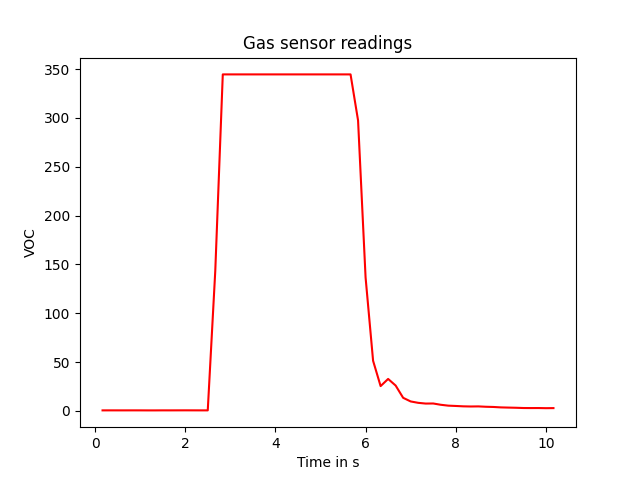
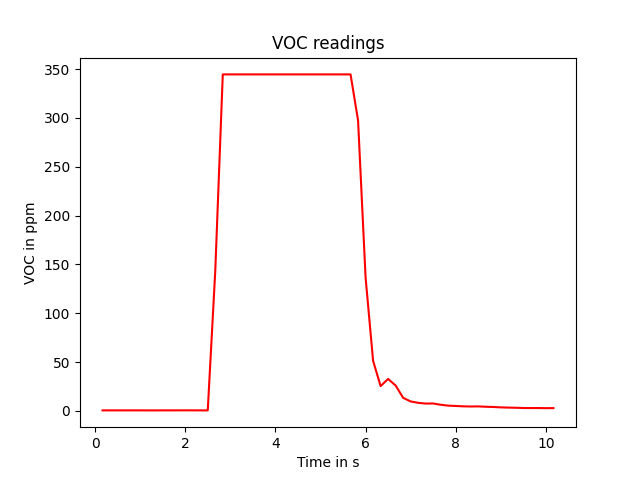
graphs updated

Changed region(s): [[0.375, 0.0625, 0.6562, 0.125], [0.0312, 0.4062, 0.0625, 0.5938]]

diff --git a/Module_3/Task2/task2_read.py b/Module_3/Task2/task2_read.py
@@ -63,15 +63,15 @@ range = np.arange(10 , (voc.size*10)+10, 10)/60
 plt.figure(1)
 plt.plot(range , voc , color = 'red')
 plt.xlabel('Time in s')
-plt.ylabel("VOC" )
-plt.title('Gas sensor readings')
+plt.ylabel("VOC in ppm" )
+plt.title('VOC readings')
 plt.savefig(ex_name+'voc' )
 
 plt.figure(2)
-plt.plot(range , co2 , color = 'blue')
+plt.plot(range , co2 , color = 'red')
 plt.xlabel('Time in s')
-plt.ylabel("Co2" )
-plt.title('Gas sensor readings')
+plt.ylabel(r'$CO_2$ in ppm' )
+plt.title(r'$CO_2$ readings')
 plt.savefig(ex_name+'co2')
 
 plt.show() 
